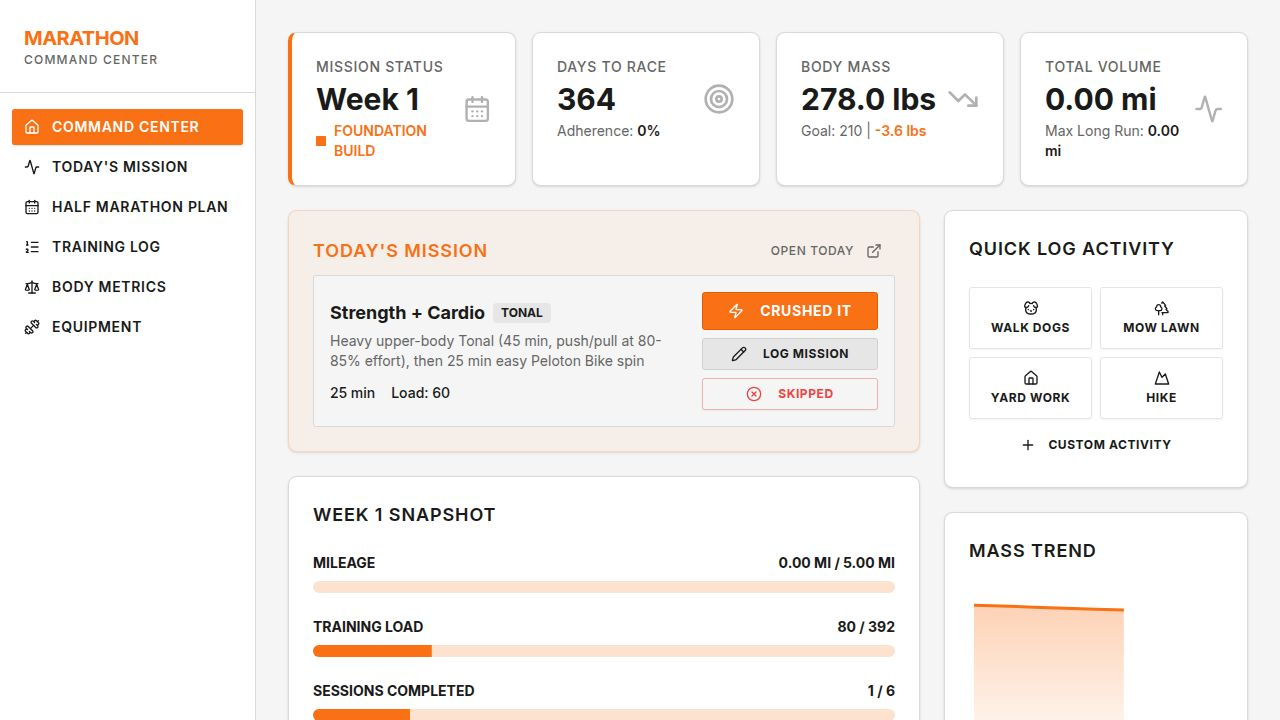
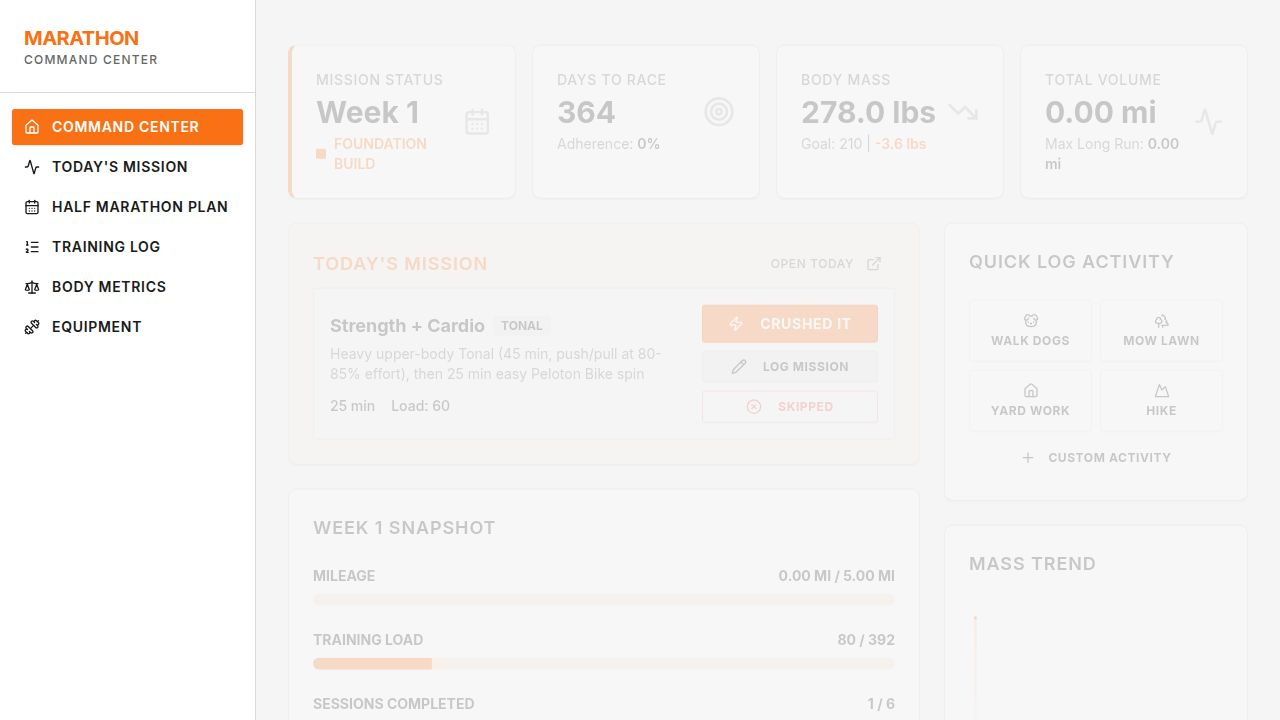
Pause-resistant Undo countdown on reset toast
Original task (#62): Pause the toast countdown so users have a fair
chance to hit Undo. The reset success toast had no visible countdown,
so users could not tell how much of the 30s server TTL was left.

Changes:
- New shared component
  `artifacts/command-center/src/components/undo-countdown-action.tsx`
  wraps `ToastAction`, captures `Date.now() + ttl` once on mount, and
  ticks every 250ms. The label renders as `Undo (Ns)` while live and
  `Undo (expired)` once the deadline passes; at expiry the button is
  also `disabled` as a guard against any drift between the visual
  tick and the host toast's auto-dismiss.
- Wired the component into both reset flows so behavior is identical:
  - Plan-wide reset toast in `artifacts/command-center/src/pages/plan.tsx`
  - Week-level reset toast in
    `artifacts/command-center/src/pages/week-detail.tsx`
  Both already pass `duration: undoSeconds * 1000` on the toast and
  receive `undoExpiresInSeconds` from the server, so the countdown is
  driven by the same TTL constant (`RESET_UNDO_TTL_MS = 30_000` in
  `artifacts/api-server/src/lib/reset-undo.ts`) without changing the
  API contract.
- Removed the now-unused `ToastAction` import from those two pages.

Verification:
- `pnpm --filter @user/api-spec run codegen` (regenerated stale
  client types so undo response shape was visible to TS)
- `pnpm --filter @user/command-center exec tsc --noEmit` clean
- `pnpm -r --if-present run test`: 88/88 tests pass
[…]

diff --git a/artifacts/command-center/src/components/undo-countdown-action.tsx b/artifacts/command-center/src/components/undo-countdown-action.tsx
@@ -1,0 +1,50 @@
+import { useEffect, useRef, useState } from "react";
+import { ToastAction } from "@/components/ui/toast";
+
+interface UndoCountdownActionProps {
+  expiresInSeconds: number;
+  onUndo: () => void;
+  altText: string;
+  testId?: string;
+}
+
+// Toast action button that shows a live "Undo (Ns)" countdown matching the
+// server's undo TTL. The host toast is given the same duration so it
+// auto-dismisses the moment the countdown hits zero; this component just keeps
+// the user-visible label in sync and disables itself at expiry as a belt-and-
+// suspenders guard against any drift between the visual tick and the toast's
+// own auto-dismiss timer.
+export function UndoCountdownAction({
+  expiresInSeconds,
+  onUndo,
+  altText,
+  testId,
+}: UndoCountdownActionProps) {
+  const expiresAtRef = useRef<number>(Date.now() + expiresInSeconds * 1000);
+  const computeRemaining = () =>
+    Math.max(0, Math.ceil((expiresAtRef.current - Date.now()) / 1000));
+  const [secondsLeft, setSecondsLeft] = useState<number>(computeRemaining);
+
+  useEffect(() => {
+    if (secondsLeft <= 0) return;
+    const id = setInterval(() => {
+      const remaining = computeRemaining();
+      setSecondsLeft(remaining);
+      if (remaining <= 0) clearInterval(id);
+    }, 250);
+    return () => clearInterval(id);
+  }, [secondsLeft]);
+
+  const expired = secondsLeft <= 0;
+
+  return (
+    <ToastAction
+      altText={altText}
+      onClick={onUndo}
+      disabled={expired}
+      data-testid={testId}
+    >
+      Undo {expired ? "(expired)" : `(${secondsLeft}s)`}
+    </ToastAction>
+  );
+}

diff --git a/artifacts/command-center/src/pages/plan.tsx b/artifacts/command-center/src/pages/plan.tsx
@@ -23,7 +23,7 @@ import {
   AlertDialogTitle,
 } from "@/components/ui/alert-dialog";
 import { useToast } from "@/hooks/use-toast";
-import { ToastAction } from "@/components/ui/toast";
+import { UndoCountdownAction } from "@/components/undo-countdown-action";
 import { invalidateMissionRelatedQueries } from "@/lib/invalidate-mission-queries";
 import { formatDistance, formatDate } from "@/lib/format";
 import { useLocation } from "wouter";
@@ -94,13 +94,12 @@ export default function Plan() {
             description: `${data.daysReset} day${data.daysReset === 1 ? "" : "s"} across ${data.weeksReset} week${data.weeksReset === 1 ? "" : "s"} restored to the original campaign. Undo available for ${undoSeconds}s.`,
             duration: undoToken ? undoSeconds * 1000 : undefined,
             action: undoToken ? (
-              <ToastAction
+              <UndoCountdownAction
                 altText="Undo plan reset"
-                onClick={() => handleUndoReset(undoToken)}
-                data-testid="button-undo-reset-plan"
-              >
-                Undo
-              </ToastAction>
+                expiresInSeconds={undoSeconds}
+                onUndo={() => handleUndoReset(undoToken)}
+                testId="button-undo-reset-plan"
+              />
             ) : undefined,
           });
         }

diff --git a/artifacts/command-center/src/pages/week-detail.tsx b/artifacts/command-center/src/pages/week-detail.tsx
@@ -32,7 +32,6 @@ import {
   AlertDialogTitle,
 } from "@/components/ui/alert-dialog";
 import { useToast } from "@/hooks/use-toast";
-import { ToastAction } from "@/components/ui/toast";
 import { invalidateMissionRelatedQueries } from "@/lib/invalidate-mission-queries";
 import { formatDistance, formatLoad, formatDate, formatDuration } from "@/lib/format";
 import {
@@ -59,6 +58,7 @@ import { PlanDayForm } from "@/components/plan-day-form";
 import { MoveDayPicker } from "@/components/move-day-picker";
 import { sortWorkoutsByTimeOfDay } from "@/lib/time-of-day";
 import { TimeOfDayBadge } from "@/components/time-of-day-badge";
+import { UndoCountdownAction } from "@/components/undo-countdown-action";
 
 function todayISO(): string {
   return new Date().toISOString().slice(0, 10);
@@ -228,15 +228,14 @@ export default function WeekDetail() {
               description: `${data.daysReset} day${data.daysReset === 1 ? "" : "s"} in week ${weekNum} restored to the original plan. Undo available for ${undoSeconds}s.`,
               duration: undoToken ? undoSeconds * 1000 : undefined,
               action: undoToken ? (
-                <ToastAction
+                <UndoCountdownAction
                   altText="Undo week reset"
-                  onClick={() =>
+                  expiresInSeconds={undoSeconds}
+                  onUndo={() =>
                     handleUndoReset(undoToken, `week ${weekNum}`)
                   }
-                  data-testid="button-undo-reset-week"
-                >
-                  Undo
-                </ToastAction>
+                  testId="button-undo-reset-week"
+                />
               ) : undefined,
             });
           }